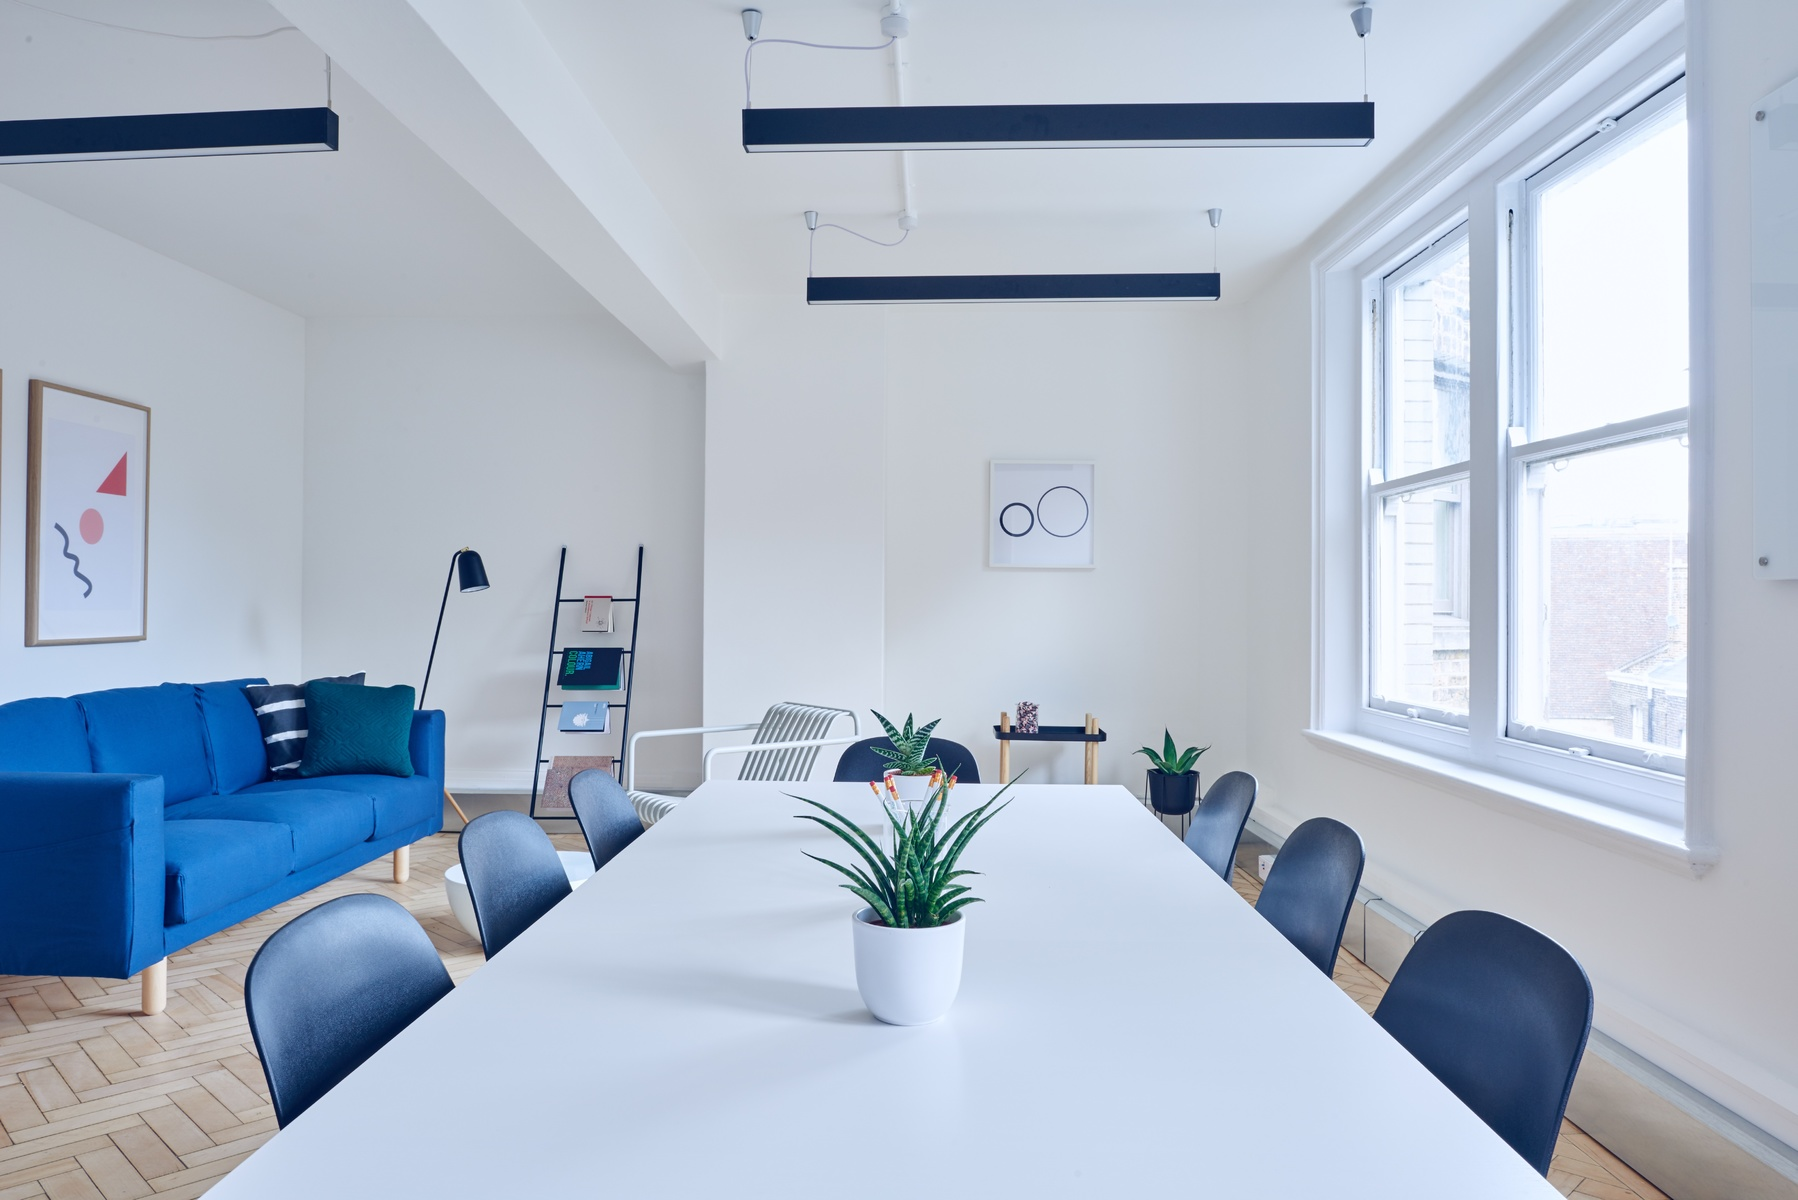
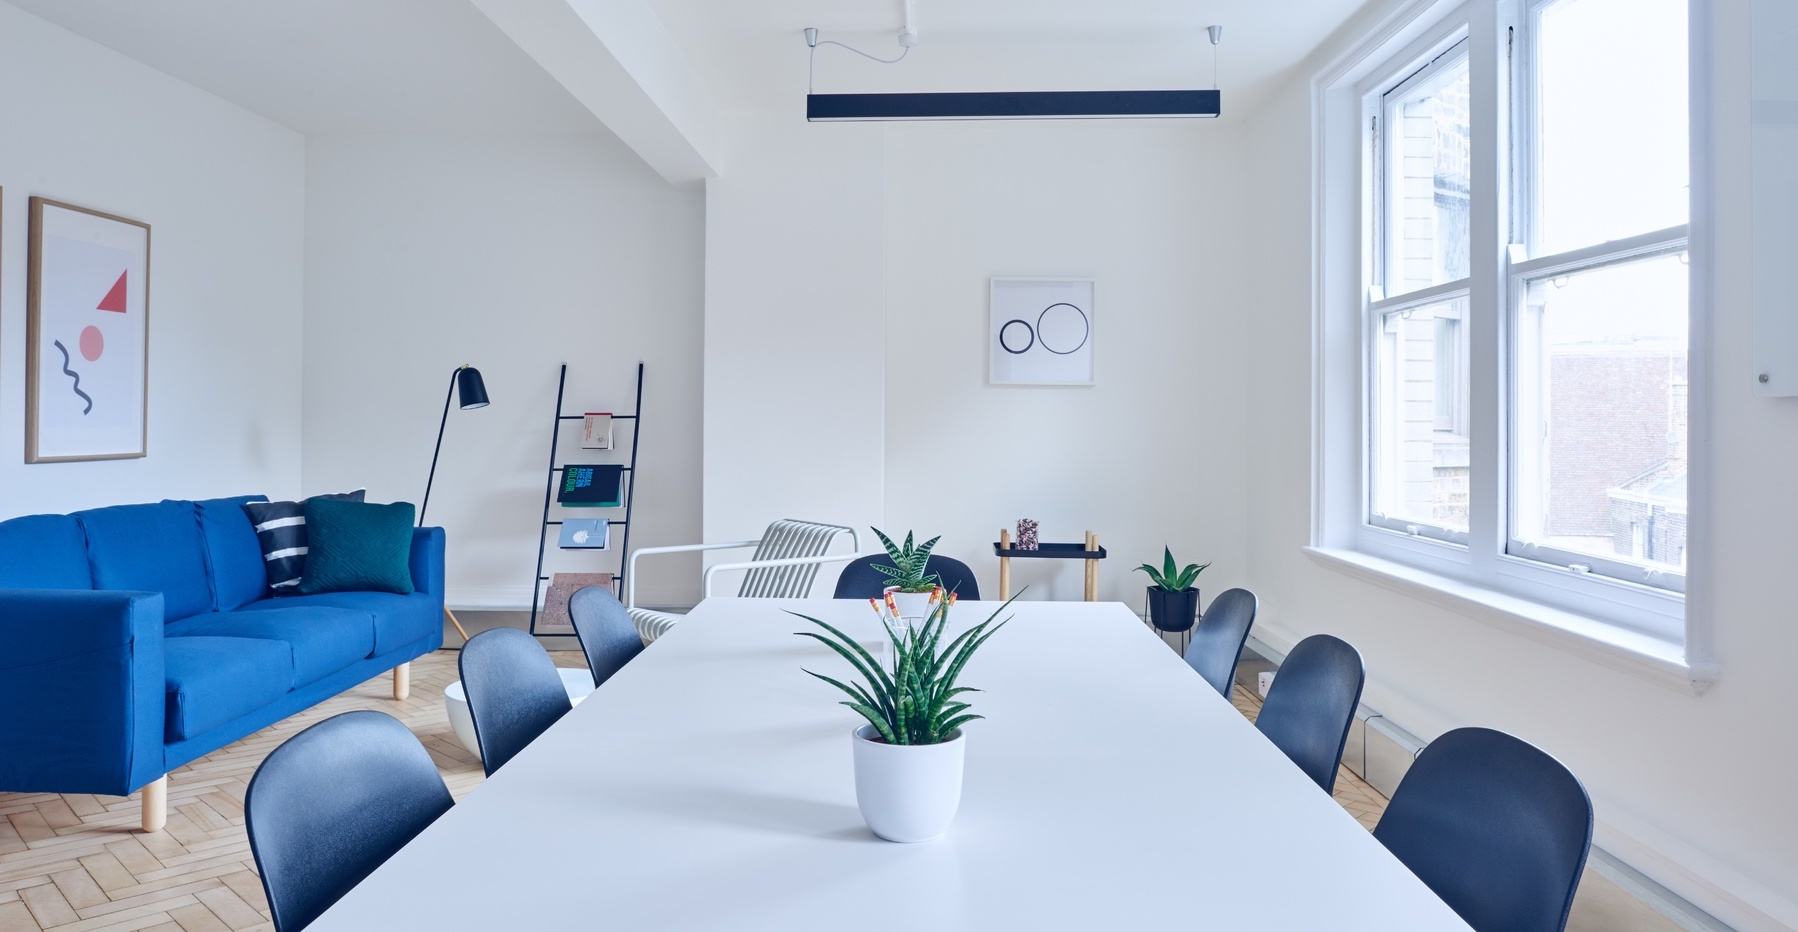
update living-room image

diff --git a/index.html b/index.html
@@ -15,7 +15,7 @@
       }
       .header__bg-image {
         background-image: url(./images/living-room.jpg);
-        background-position: 50% 56%;
+        background-position: 50% 46%;
         background-repeat: no-repeat;
       }
       .header__facebook-btn {
